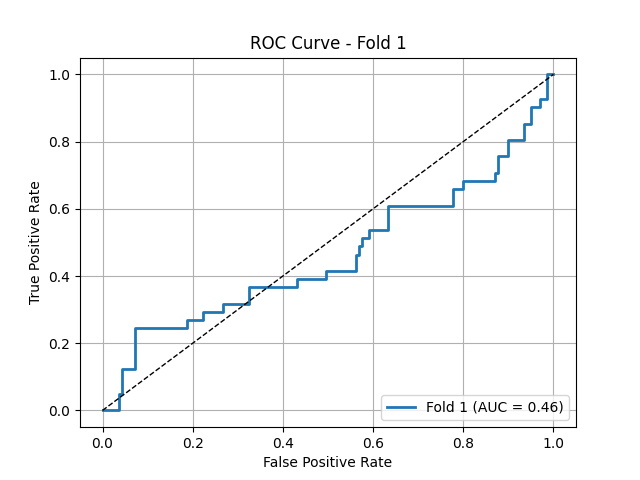
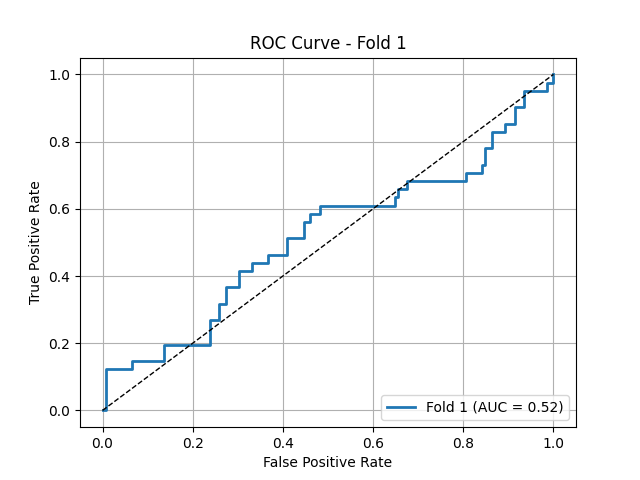
new augmentation changed of p =0.5

diff --git a/dataset_washu2.py b/dataset_washu2.py
@@ -85,8 +85,8 @@ train_transform = A.Compose([
     A.GridDistortion(p=0.2),
 
 	#A.GaussNoise(var_limit=(0.2, 0.44), p=1),
-    A.RandomBrightnessContrast(brightness_limit=0.01, contrast_limit=0.01, p=1),
-    A.CLAHE(clip_limit=1., tile_grid_size=(8, 8), p=1),
+    A.RandomBrightnessContrast(brightness_limit=0.01, contrast_limit=0.01, p=0.5),
+    A.CLAHE(clip_limit=1., tile_grid_size=(8, 8), p=0.5),
     #A.Downscale(scale_min=0.25, scale_max=0.25, p=0.5),
 	
 
